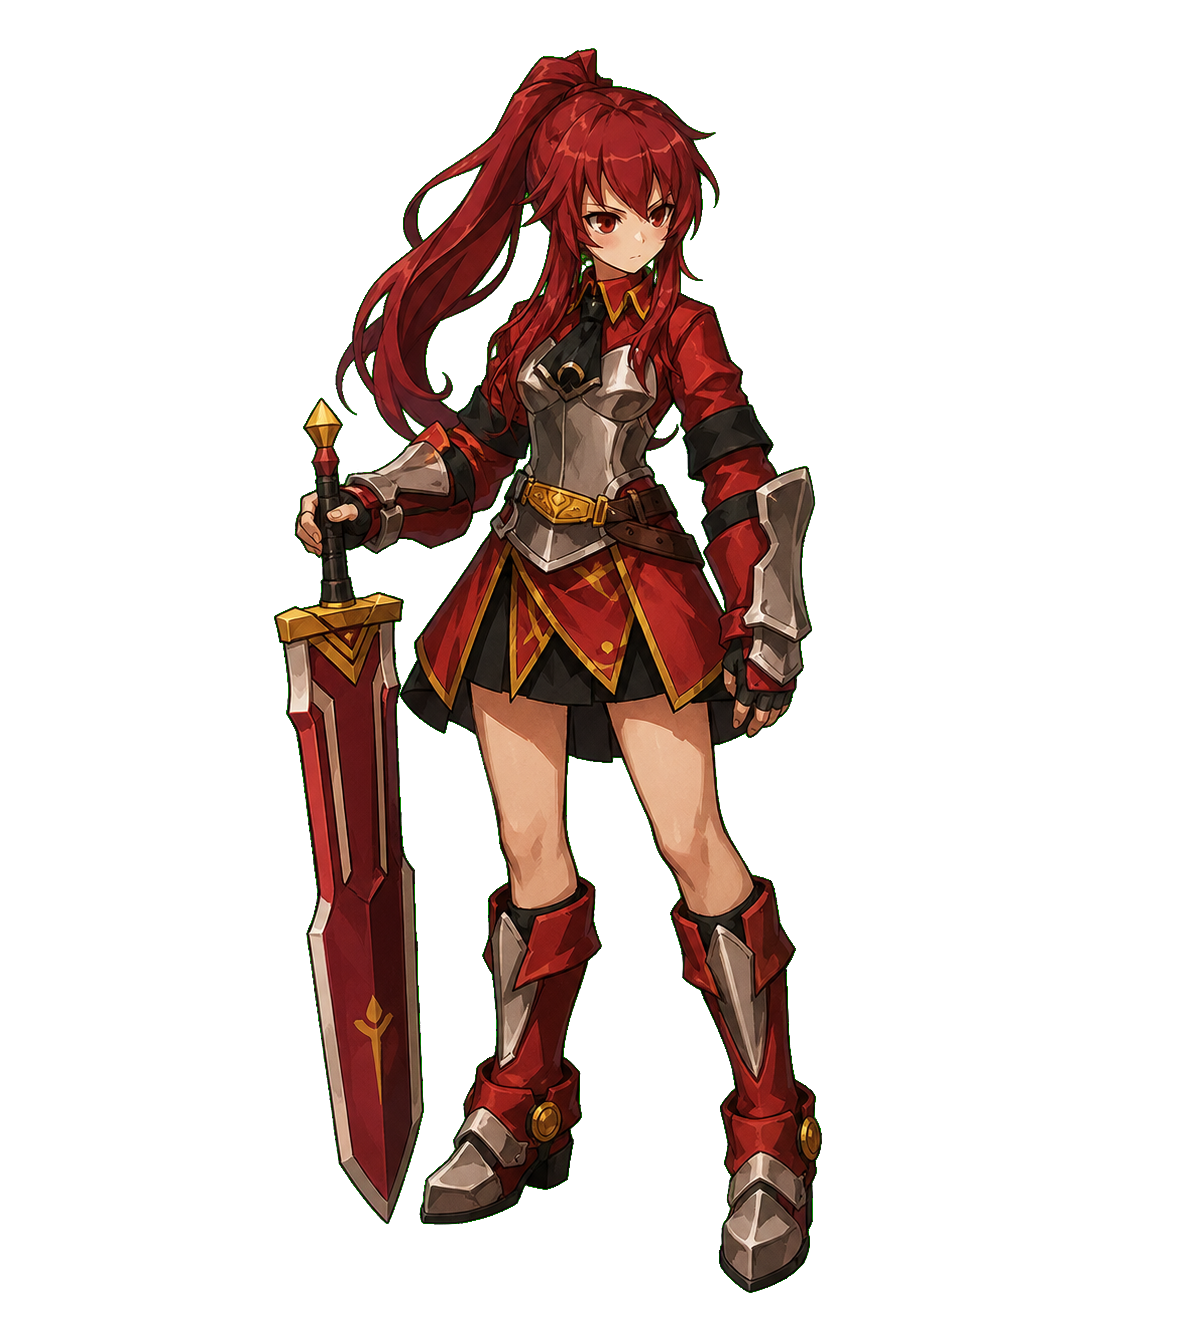
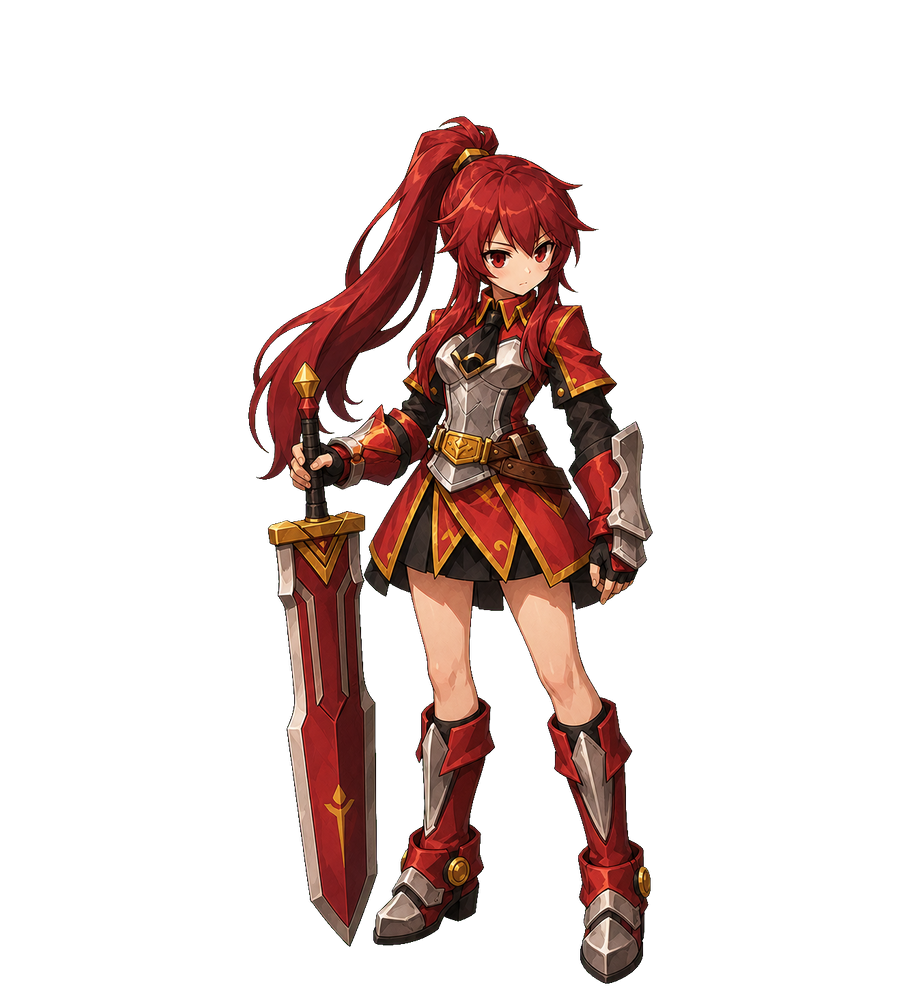
Prepare Elesis v0.4.15

Changed region(s): [[0.2178, 0.031, 0.7467, 0.992]]

diff --git a/docs/DESIGN.md b/docs/DESIGN.md
@@ -12,5 +12,6 @@ Confirmed design direction:
 - The starter relic visual is the Belder Knight Emblem: a red-and-gold knight crest with a claymore motif, matching her red knight identity.
 - Energy UI uses a red crystal-and-gold knight orb. Chivalry uses a red-gold sword crest power icon, and Flame uses a sharper red-orange sword-flame crest icon.
 - Map marker art currently uses the previous larger Elesis marker because it reads better in-game than the experimental silhouette pass.
+- Combat, shop, and rest-site character art use transparent sprite assets with bottom-aligned scene placement. Combat art leans more chibi/readable than the larger menu illustrations so her feet align cleanly with other player visuals.
 
 Do not treat generated art attempts as final until one is explicitly selected as the project asset.

diff --git a/docs/releases/v0.4.15.md b/docs/releases/v0.4.15.md
@@ -1,0 +1,5 @@
+# Elesis v0.4.15
+
+- Replaces Elesis' combat art with a more chibi, readable battle sprite.
+- Refreshes the shop and rest-site sprites and adjusts their scene scale/offsets.
+- Aligns combat placement so Elesis' feet sit correctly on the player visual baseline.
